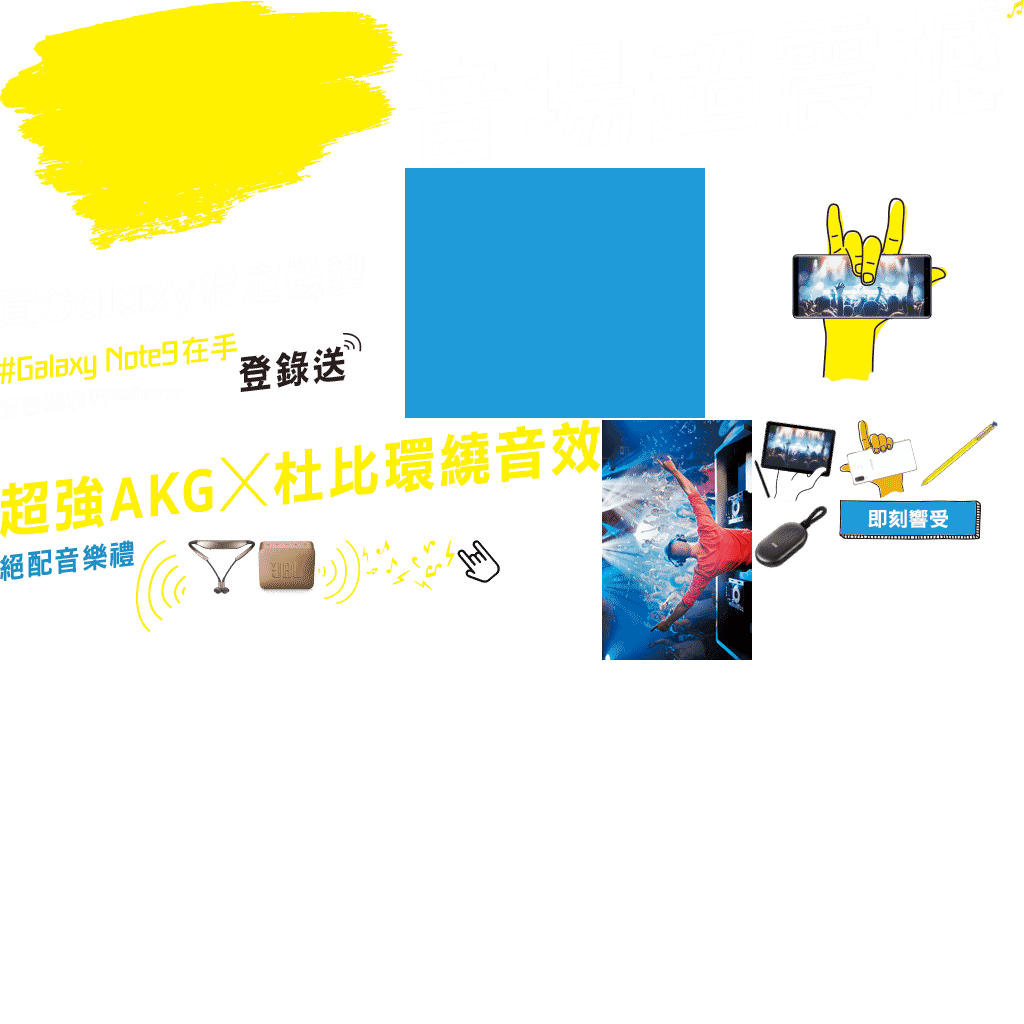
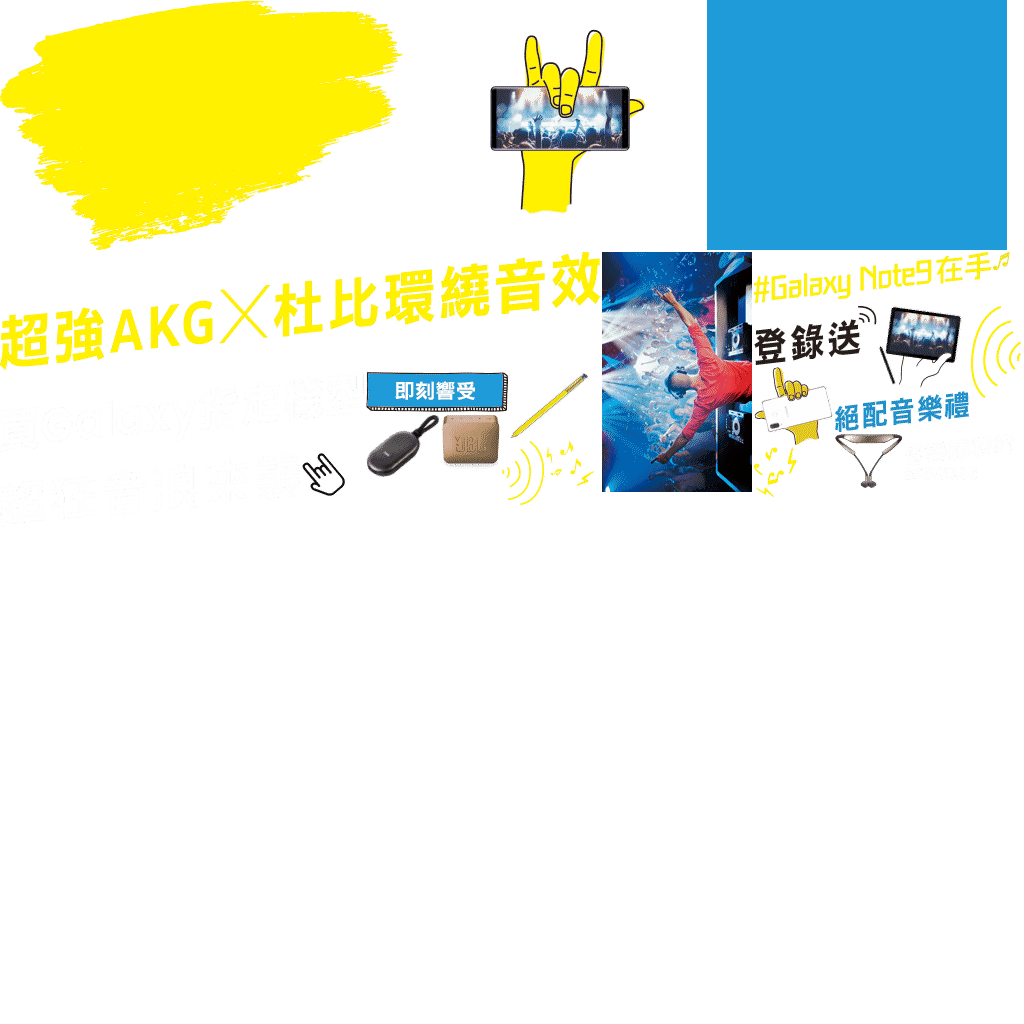
'update'

Changed region(s): [[0.0, 0.0, 1.0, 0.6562]]

diff --git a/20180921/300x250.js b/20180921/300x250.js
@@ -3,7 +3,7 @@
 var p; // shortcut to reference prototypes
 var lib={};var ss={};var img={};
 lib.ssMetadata = [
-		{name:"300x250_atlas_", frames: [[0,0,403,250],[405,168,300,250],[839,500,142,40],[457,540,43,43],[111,387,71,12],[136,540,50,92],[318,540,42,64],[839,420,79,78],[754,420,83,83],[1007,0,17,19],[412,540,43,50],[362,540,48,45],[707,168,300,250],[754,505,74,63],[258,540,58,56],[188,540,68,54],[920,420,79,67],[602,420,150,240],[0,333,237,52],[0,387,109,31],[239,333,123,59],[0,540,134,41],[0,420,600,118],[0,252,364,79],[405,0,600,166]]}
+		{name:"300x250_atlas_", frames: [[0,0,403,250],[0,453,300,73],[707,0,300,250],[366,372,142,40],[302,453,43,43],[905,467,71,12],[971,306,50,92],[502,441,42,64],[754,367,79,78],[879,306,83,83],[993,252,17,19],[754,447,43,50],[546,441,48,45],[405,0,300,250],[366,414,74,63],[442,414,58,56],[835,434,68,54],[510,372,79,67],[602,252,150,240],[754,252,237,52],[905,434,109,31],[754,306,123,59],[835,391,134,41],[0,252,600,118],[0,372,364,79]]}
 ];
 
 
@@ -18,168 +18,168 @@ lib.ssMetadata = [
 
 
 
-(lib.bg = function() {
+(lib._5png複製 = function() {
 	this.spriteSheet = ss["300x250_atlas_"];
 	this.gotoAndStop(1);
 }).prototype = p = new cjs.Sprite();
 
 
 
-(lib.btn = function() {
+(lib.bg = function() {
 	this.spriteSheet = ss["300x250_atlas_"];
 	this.gotoAndStop(2);
 }).prototype = p = new cjs.Sprite();
 
 
 
-(lib.hand = function() {
+(lib.btn = function() {
 	this.spriteSheet = ss["300x250_atlas_"];
 	this.gotoAndStop(3);
 }).prototype = p = new cjs.Sprite();
 
 
 
-(lib.logo = function() {
+(lib.hand = function() {
 	this.spriteSheet = ss["300x250_atlas_"];
 	this.gotoAndStop(4);
 }).prototype = p = new cjs.Sprite();
 
 
 
-(lib.m3 = function() {
+(lib.logo = function() {
 	this.spriteSheet = ss["300x250_atlas_"];
 	this.gotoAndStop(5);
 }).prototype = p = new cjs.Sprite();
 
 
 
-(lib.m4 = function() {
+(lib.m3 = function() {
 	this.spriteSheet = ss["300x250_atlas_"];
 	this.gotoAndStop(6);
 }).prototype = p = new cjs.Sprite();
 
 
 
-(lib.mm2 = function() {
+(lib.m4 = function() {
 	this.spriteSheet = ss["300x250_atlas_"];
 	this.gotoAndStop(7);
 }).prototype = p = new cjs.Sprite();
 
 
 
-(lib.mm3 = function() {
+(lib.mm2 = function() {
 	this.spriteSheet = ss["300x250_atlas_"];
 	this.gotoAndStop(8);
 }).prototype = p = new cjs.Sprite();
 
 
 
-(lib.mo1 = function() {
+(lib.mm3 = function() {
 	this.spriteSheet = ss["300x250_atlas_"];
 	this.gotoAndStop(9);
 }).prototype = p = new cjs.Sprite();
 
 
 
-(lib.mo2 = function() {
+(lib.mo1 = function() {
 	this.spriteSheet = ss["300x250_atlas_"];
 	this.gotoAndStop(10);
 }).prototype = p = new cjs.Sprite();
 
 
 
-(lib.mo3 = function() {
+(lib.mo2 = function() {
 	this.spriteSheet = ss["300x250_atlas_"];
 	this.gotoAndStop(11);
 }).prototype = p = new cjs.Sprite();
 
 
 
-(lib.n9 = function() {
+(lib.mo3 = function() {
 	this.spriteSheet = ss["300x250_atlas_"];
 	this.gotoAndStop(12);
 }).prototype = p = new cjs.Sprite();
 
 
 
-(lib.p1 = function() {
+(lib.n9 = function() {
 	this.spriteSheet = ss["300x250_atlas_"];
 	this.gotoAndStop(13);
 }).prototype = p = new cjs.Sprite();
 
 
 
-(lib.p2 = function() {
+(lib.p1 = function() {
 	this.spriteSheet = ss["300x250_atlas_"];
 	this.gotoAndStop(14);
 }).prototype = p = new cjs.Sprite();
 
 
 
-(lib.p3 = function() {
+(lib.p2 = function() {
 	this.spriteSheet = ss["300x250_atlas_"];
 	this.gotoAndStop(15);
 }).prototype = p = new cjs.Sprite();
 
 
 
-(lib.pen = function() {
+(lib.p3 = function() {
 	this.spriteSheet = ss["300x250_atlas_"];
 	this.gotoAndStop(16);
 }).prototype = p = new cjs.Sprite();
 
 
 
-(lib.pp1 = function() {
+(lib.pen = function() {
 	this.spriteSheet = ss["300x250_atlas_"];
 	this.gotoAndStop(17);
 }).prototype = p = new cjs.Sprite();
 
 
 
-(lib.t1 = function() {
+(lib.pp1 = function() {
 	this.spriteSheet = ss["300x250_atlas_"];
 	this.gotoAndStop(18);
 }).prototype = p = new cjs.Sprite();
 
 
 
-(lib.t2 = function() {
+(lib.t1 = function() {
 	this.spriteSheet = ss["300x250_atlas_"];
 	this.gotoAndStop(19);
 }).prototype = p = new cjs.Sprite();
 
 
 
-(lib.t42 = function() {
+(lib.t2 = function() {
 	this.spriteSheet = ss["300x250_atlas_"];
 	this.gotoAndStop(20);
 }).prototype = p = new cjs.Sprite();
 
 
 
-(lib.t43 = function() {
+(lib.t42 = function() {
 	this.spriteSheet = ss["300x250_atlas_"];
 	this.gotoAndStop(21);
 }).prototype = p = new cjs.Sprite();
 
 
 
-(lib.ttt1 = function() {
+(lib.t43 = function() {
 	this.spriteSheet = ss["300x250_atlas_"];
 	this.gotoAndStop(22);
 }).prototype = p = new cjs.Sprite();
 
 
 
-(lib.ttt3 = function() {
+(lib.ttt1 = function() {
 	this.spriteSheet = ss["300x250_atlas_"];
 	this.gotoAndStop(23);
 }).prototype = p = new cjs.Sprite();
 
 
 
-(lib.ttt4 = function() {
+(lib.ttt3 = function() {
 	this.spriteSheet = ss["300x250_atlas_"];
 	this.gotoAndStop(24);
 }).prototype = p = new cjs.Sprite();
@@ -278,14 +278,14 @@ p.nominalBounds = new cjs.Rectangle(-41.5,-41.5,83,83);
 (lib.元件47 = function(mode,startPosition,loop) {
 	this.initialize(mode,startPosition,loop,{});
 
-	// 圖層 2
-	this.instance = new lib.ttt4();
+	// 圖層 3
+	this.instance = new lib._5png複製();
 	this.instance.parent = this;
-	this.instance.setTransform(-1,-4,0.625,0.625);
+	this.instance.setTransform(-25,-7,1.486,1.486);
 
 	this.timeline.addTween(cjs.Tween.get(this.instance).wait(1));
 
-}).prototype = getMCSymbolPrototype(lib.元件47, new cjs.Rectangle(-1,-4,375.2,105), null);
+}).prototype = getMCSymbolPrototype(lib.元件47, new cjs.Rectangle(-25,-7,445.7,108.5), null);
 
 
 (lib.元件39 = function(mode,startPosition,loop) {
@@ -931,7 +931,7 @@ lib.properties = {
 	color: "#FFFFFF",
 	opacity: 1.00,
 	manifest: [
-		{src:"images/300x250_atlas_.png?1538017261027", id:"300x250_atlas_"}
+		{src:"images/300x250_atlas_.png?1538032588766", id:"300x250_atlas_"}
 	],
 	preloads: []
 };

diff --git a/20180921/300x250.html b/20180921/300x250.html
@@ -14,7 +14,7 @@
 <title>300x250</title>
 <!-- write your code here -->
 <script src="https://code.createjs.com/createjs-2015.11.26.min.js"></script>
-<script src="300x250.js?1538017261109"></script>
+<script src="300x250.js?1538032588846"></script>
 <script>
 var canvas, stage, exportRoot, anim_container, dom_overlay_container, fnStartAnimation;
 function init() {
